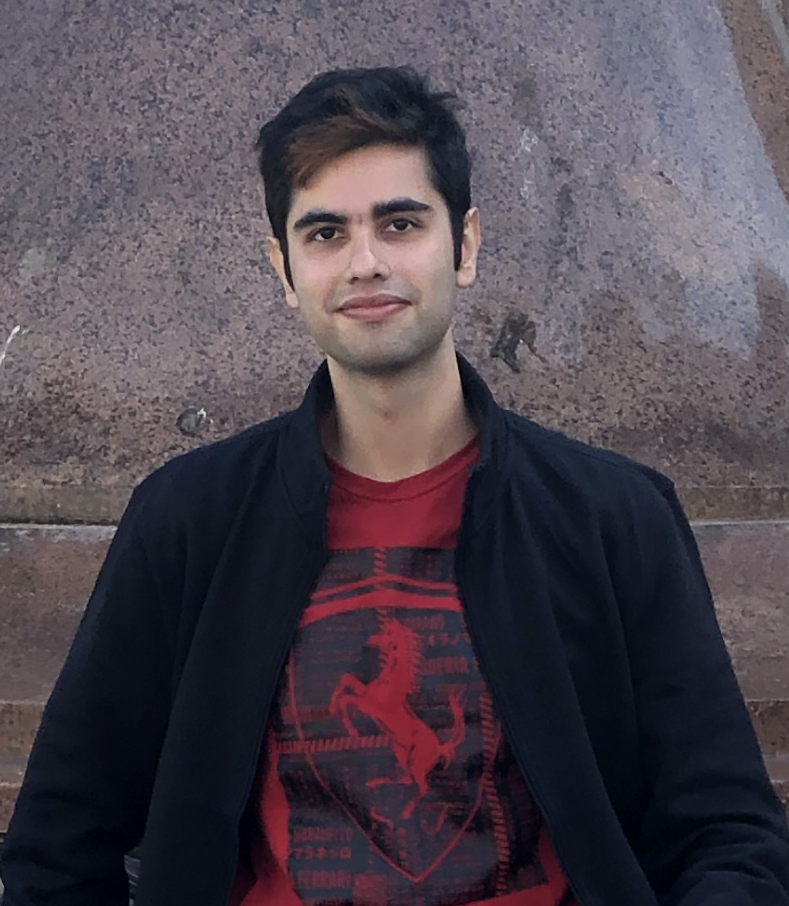
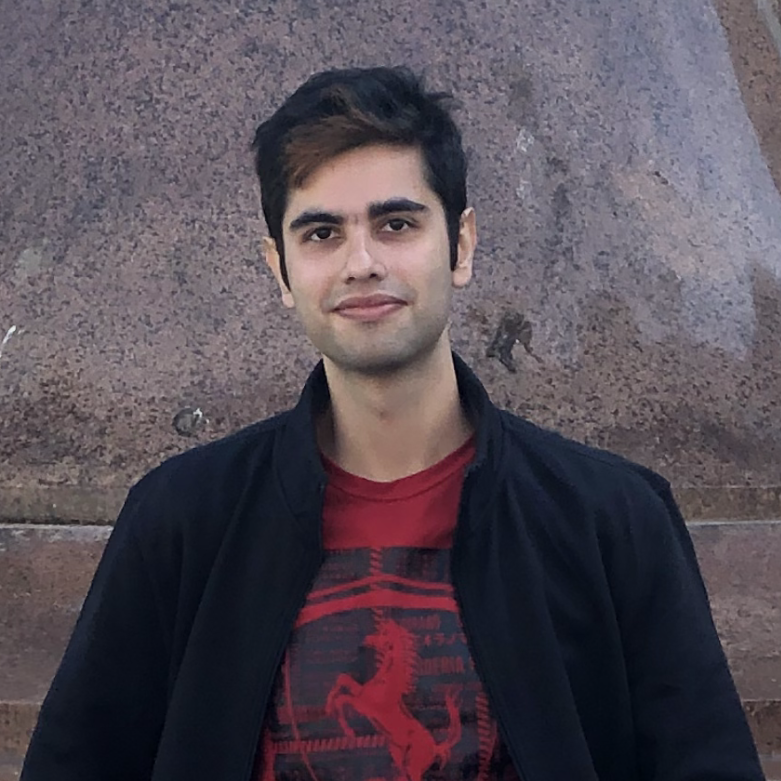
added a scroll indicator +++
- fixed position of navbar
- fixed gaurav's photo
- edited some data
- made the time in card smaller

diff --git a/index.html b/index.html
@@ -27,49 +27,55 @@
   </head>
 
   <body>
-    <nav id="navbar-pwj" class="navbar navbar-expand-lg navbar-dark bg-dark">
-      <div class="collapse navbar-collapse" id="navbarNav" data-aos="flip-up">
-        <div class="navbar-collapse collapse w-100 order-1 order-md-0">
-          <ul class="navbar-nav mr-auto ml-3">
-            <li class="nav-item active">
-              <a class="nav-link" href="#map">Welcome</a>
-            </li>
-            <li class="nav-item">
-              <a class="nav-link" href="#about">About</a>
-            </li>
-            <li class="nav-item">
-              <a class="nav-link" href="#coaches">Coaches</a>
-            </li>
-            <li class="nav-item">
-              <a class="nav-link" href="#gallery">Gallery</a>
-            </li>
-          </ul>
+    <div id="navbar-div">
+      <nav id="navbar-pwj" class="navbar navbar-expand-lg navbar-dark bg-dark">
+        <div class="collapse navbar-collapse" id="navbarNav" data-aos="flip-up">
+          <div class="navbar-collapse collapse w-100 order-1 order-md-0">
+            <ul class="navbar-nav mr-auto ml-3">
+              <li class="nav-item active">
+                <a class="nav-link" href="#map">Welcome</a>
+              </li>
+              <li class="nav-item">
+                <a class="nav-link" href="#about">About</a>
+              </li>
+              <li class="nav-item">
+                <a class="nav-link" href="#coaches">Coaches</a>
+              </li>
+              <li class="nav-item">
+                <a class="nav-link" href="#gallery">Gallery</a>
+              </li>
+            </ul>
+          </div>
+          <div class="mx-auto order-0">
+            <a
+              class="navbar-brand mx-auto"
+              href="#"
+              style="font-family: 'Bebas Neue';"
+              >JavaScript Success Coaches</a
+            >
+          </div>
+          <div class="navbar-collapse collapse w-100 order-3">
+            <ul class="navbar-nav ml-auto mr-3">
+              <li class="nav-item">
+                <a class="nav-link" href="#feedback">Got Feeback?</a>
+              </li>
+              <li class="nav-item">
+                <a
+                  class="nav-link"
+                  href="https://jessica6m.github.io/Tutorials-SC-CP/"
+                  target="_blank"
+                  >Need Video Sources?</a
+                >
+              </li>
+            </ul>
+          </div>
         </div>
-        <div class="mx-auto order-0">
-          <a
-            class="navbar-brand mx-auto"
-            href="#"
-            style="font-family: 'Bebas Neue';"
-            >JavaScript Success Coaches</a
-          >
-        </div>
-        <div class="navbar-collapse collapse w-100 order-3">
-          <ul class="navbar-nav ml-auto mr-3">
-            <li class="nav-item">
-              <a class="nav-link" href="#feedback">Got Feeback?</a>
-            </li>
-            <li class="nav-item">
-              <a
-                class="nav-link"
-                href="https://jessica6m.github.io/Tutorials-SC-CP/"
-                target="_blank"
-                >Need Video Sources?</a
-              >
-            </li>
-          </ul>
-        </div>
+      </nav>
+      <div class="progress-container">
+        <div class="progress-bar" id="myBar"></div>
       </div>
-    </nav>
+    </div>
+    
 
     <section id="welcome-section">
       <div id="welcome" style="background: url('img/call.gif');">

diff --git a/coaches.js b/coaches.js
@@ -1,14 +1,5 @@
 let coaches = [
     {
-      "name": "Fizan",
-      "UTC": "-7",
-      "diff": { "hours": -7, "minutes": 0 },
-      "available": [9, 17],
-      "profpic": "img/js-sample-pic.png",
-      "description": "PROFILE STILL BEING CODED.",
-      "slack": { "userId": "U011EKCLJKE", "profileSearchUrl": "https://app.slack.com/client/T011D0D7T54/browse-people/user_profile/" }
-    },
-    {
       "name": "Kiska",
       "UTC": "-6",
       "diff": { "hours": -6, "minutes": 0 },
@@ -34,15 +25,6 @@ let coaches = [
       "profpic": "img/Usman.jpg",
       "description": "I am QA Automation Tester &  Becoming Full Stack Developer very soon. I am in EST time zone. I am good in HTML, CSS, JSON, and JS and my available time 10 am est to 18 est (14 est to 14:30 est is exception)",
       "slack": { "userId": "U0132DUPHCY", "profileSearchUrl": "https://app.slack.com/client/T011D0D7T54/browse-people/user_profile/" }
-    },
-    {
-      "name": "Jessica",
-      "UTC": "-5",
-      "diff": { "hours": -5, "minutes": 0 },
-      "available": [0, 0],
-      "profpic": "img/Jessica.jpg",
-      "description": "Hey my name is Jessica Gross I'm from Brooklyn, New York. I am the winner of the JS Challenge :star-struck::tada::boom: and new to Profit with JavaScript!! I would say I am an intermediate level developer I know HTML, CSS, JavaScript, Java, Python. I have built web applications using Java's Spring framework. I am currently building projects using JavaScript like the Google Maps project I did for the contest and many others. I am currently learning Node. I am friendly outgoing gamer girl . I just started freelancing tutoring and mentoring. Reach out to me and I will try to help you as best as I can.",
-      "slack": { "userId": "U011CNDCVSB", "profileSearchUrl": "https://app.slack.com/client/T011D0D7T54/browse-people/user_profile/" }
     },
     {
       "name": "Rishi",

diff --git a/script.js b/script.js
@@ -1,3 +1,10 @@
+scrollBar = () => {
+  var winScroll = document.body.scrollTop || document.documentElement.scrollTop;
+  var height = document.documentElement.scrollHeight - document.documentElement.clientHeight;
+  var scrolled = (winScroll / height) * 100;
+  document.getElementById("myBar").style.width = scrolled + "%";
+}
+
 showCoaches = () => {
   let cards = "";
   coaches.forEach(coach => {
@@ -18,7 +25,7 @@ getCoachCardTemplate = (coach) => {
                   <div class="icon">${checkStatus(coach)}</div>
                 </div>
               </div>
-              <h4 class="card-subtitle mb-2 text-muted">${displayTimeNow(coach)}${coach["UTC"]}</h4>
+              <h6 class="card-subtitle mb-2 text-muted">${displayTimeNow(coach)}${coach["UTC"]}</h6>
               <p class="card-text"></p>
               <a class="text-primary" href= ${coach["slack"].profileSearchUrl}${coach["slack"].userId} target="_blank">
                   Open ${coach["name"]}'s <i class="fab fa-slack"></i> Profile
@@ -95,10 +102,14 @@ createCoachesGallery = () => {
 
 let intervalId;
 window.onload = function () {
+  scrollBar();
   createCoachesGallery();
   showCoaches();
   AOS.refresh();
-  intervalId = setInterval(() => showCoaches(), 1000);
+  intervalId = setInterval(() => {
+    showCoaches();
+  }, 1000);
+  setInterval(() => scrollBar(), 200);
 };
 
 window.onbeforeunload = () => {

diff --git a/style.css b/style.css
@@ -6,8 +6,26 @@ body {
   overflow-x: hidden;
 }
 
+#navbar-div {
+  position: fixed;
+  z-index: 1;
+  width: 100vw;
+}
+
+.progress-container {
+  width: 100%;
+  height: 8px;
+  background: #f7f7f7;
+}
+
+.progress-bar {
+  height: 8px;
+  background: #5bc0de;
+  width: 0%;
+}
+
 #welcome {
-  height: 90vh;
+  height: 97vh;
   width: 100%;
 }
 
@@ -15,6 +33,7 @@ body {
   background-color: rgb(58, 56, 56, 0.8);
   width: 700px;
   height: 100%;
+  padding-top: 8vh;
 }
 
 .container-fluid i {
